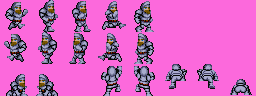
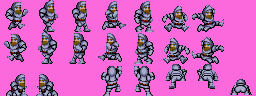
Gestion du saut

Changed region(s): [[0.625, 0.0625, 0.875, 0.3438], [0.625, 0.375, 0.875, 0.6562]]

diff --git a/arthur.c b/arthur.c
@@ -167,7 +167,7 @@ void arthur_jump_update(arthur_t *arthur){
 
     // --- On affiche la tile pour le saut vertical
     if ( arthur->state == ARTHUR_SAUTE_VERTICALEMENT ){
-        arthur->tile_offset_x=8;
+        arthur->tile_offset_x=18;
         if ( arthur->sens == 1 )
             arthur->tile_offset_y=0;
         else arthur->tile_offset_y=2;
